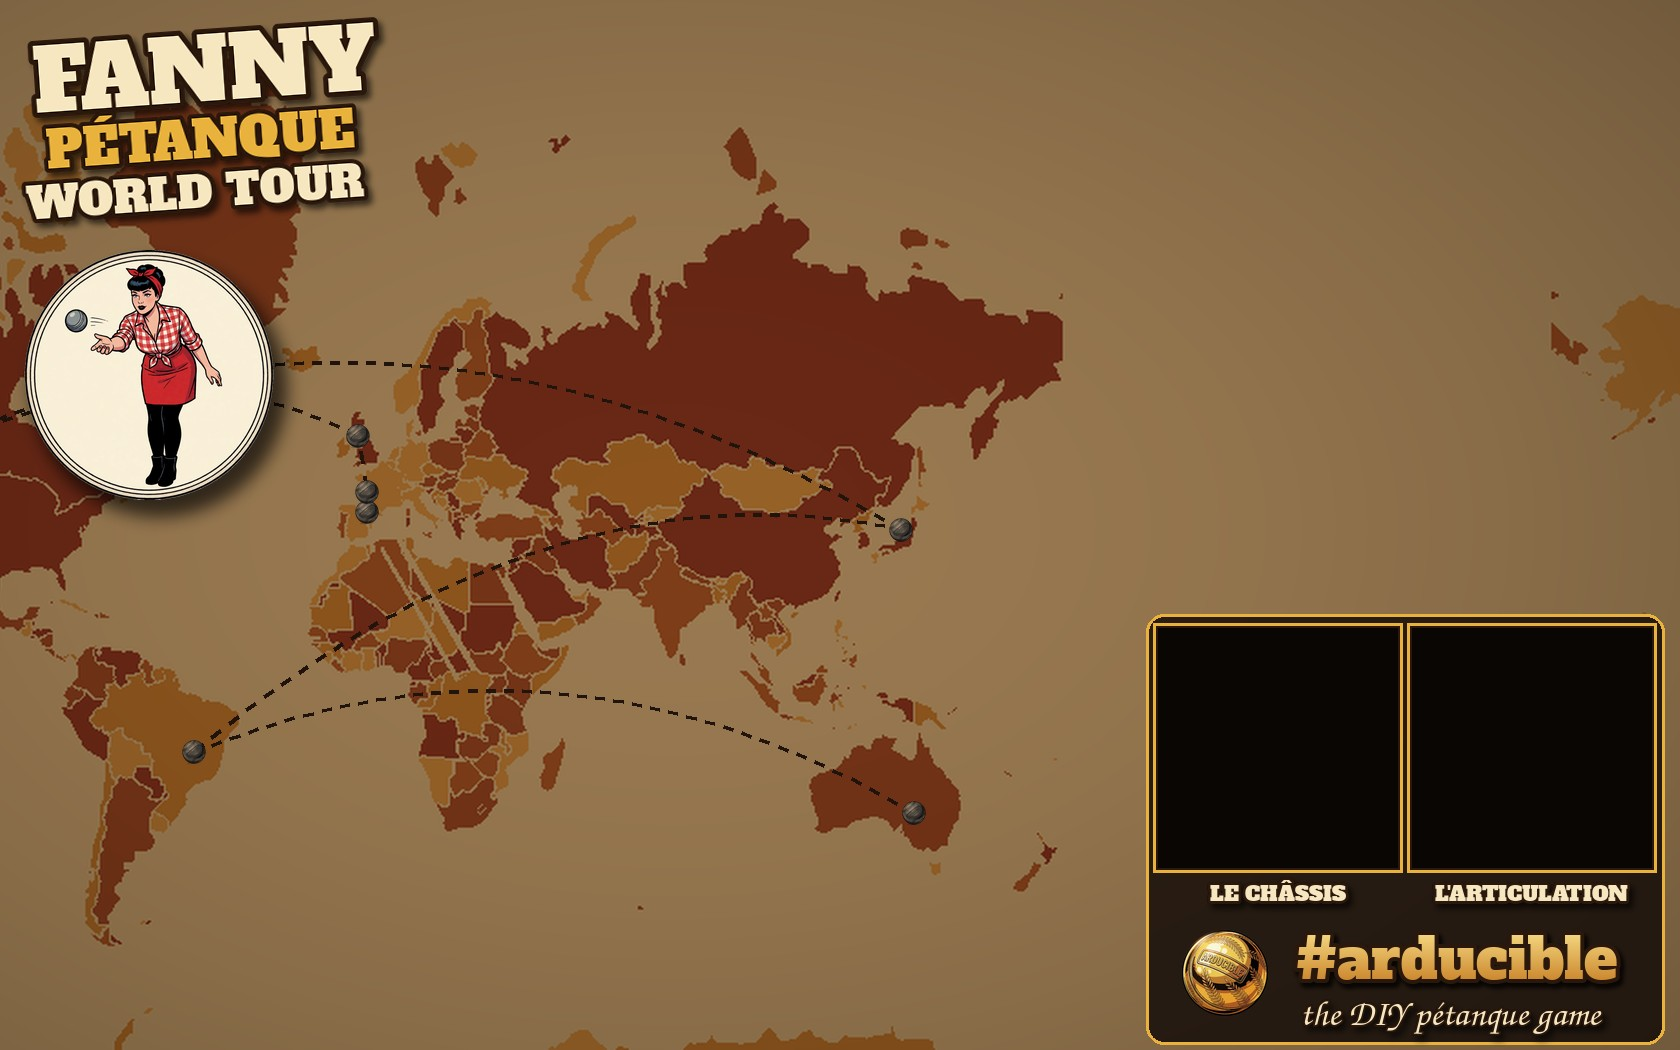
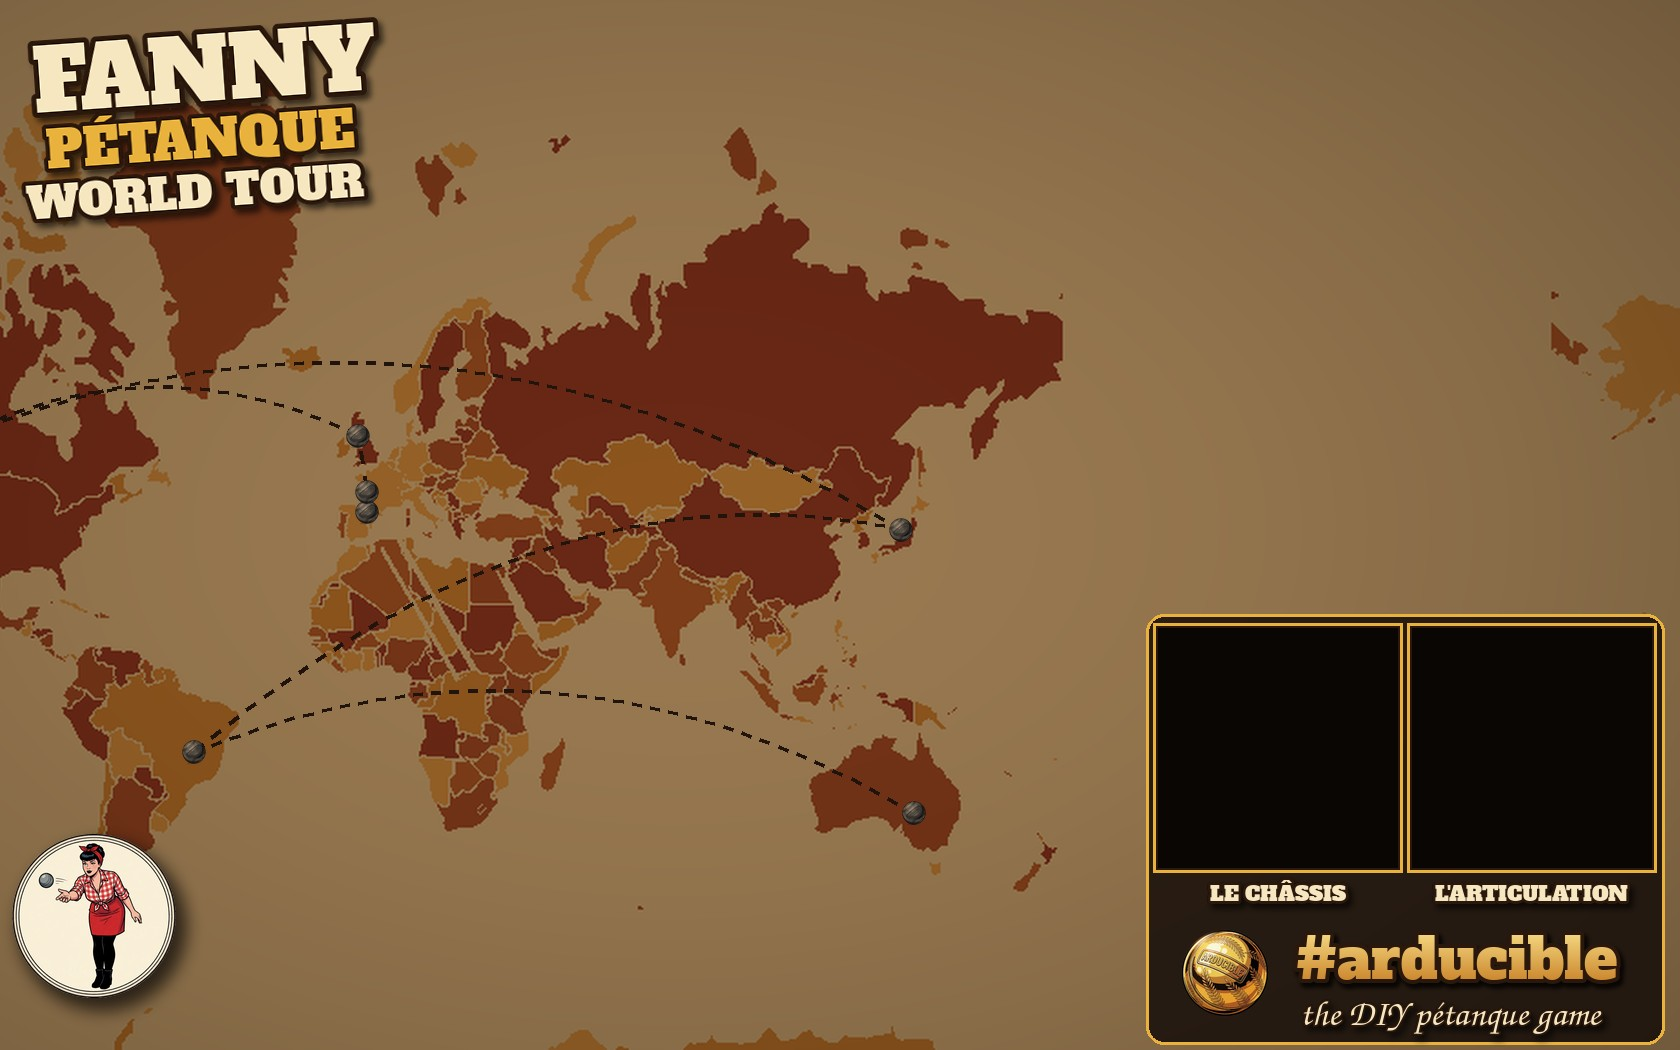
VPX : lanceur dosable comme le jeu web (tiré à fond = couloirs T-O-U-R puis bumpers), flipper en robe à pois qui tourne dans le fond, paquet de publication
- le lanceur de vpinball partait tout ou rien : le script donne la vitesse (durée d'appui, ressort précomprimé), bille dans l'axe et sans rotation
- mode d'essai -c1 lanceur (dosage), README.txt et paquet.sh pour VPUniverse / VPForums

Changed region(s): [[0.0, 0.2133, 0.1857, 0.5181], [0.0, 0.7924, 0.1238, 0.9752]]

diff --git a/outils/vpx/fond.py b/outils/vpx/fond.py
@@ -2,7 +2,8 @@
 """Fond de la vue bureau de la table VPX (écran 1680 x 1050) : clin d'œil au jeu Arducible « Fanny Pétanque World Tour ».
 
   - la carte des escales du World Tour (pays en aplats ocre, itinéraire en pointillés entre les escales de la rampe), assombrie ;
-  - à gauche : le titre FANNY PÉTANQUE WORLD TOUR et le médaillon de Fanny ;
+  - à gauche : le titre FANNY PÉTANQUE WORLD TOUR, le flipper complet (habillage robe à pois) qui tourne sur lui-même
+    (vues rendues par tourniquet.mjs, --tourniquet) et le médaillon de Fanny ;
   - sous l'afficheur : deux cadres où le script de la table fait défiler deux GIF animés tirés des vidéos du projet,
     le châssis du jeu en action et l'articulation de la boule, puis la signature #arducible, the DIY pétanque game.
 
@@ -11,7 +12,7 @@ dans la scène devant les cadres (PANNEAUX dans generateur/src/main.rs, rectangl
 
 Sources : dépôt du jeu Arducible (vidéos, carte, médaillon, boule dorée, police Alfa Slab One).
 Sorties (versées au dépôt, le générateur n'a pas besoin des sources) : outils/vpx/donnees/fond/
-  fond.jpg  chassis.gif  articulation.gif
+  fond.jpg  chassis.gif  articulation.gif  tourniquet.gif
 
   python3 outils/vpx/fond.py [--source ~/Projets/story/Arducible_Fanny_Petanque_World_Tour]
 """
@@ -22,6 +23,7 @@ from PIL import Image, ImageDraw, ImageFilter, ImageFont
 ICI = os.path.dirname(os.path.abspath(__file__))
 ap = argparse.ArgumentParser()
 ap.add_argument('--source', default=os.path.expanduser('~/Projets/story/Arducible_Fanny_Petanque_World_Tour'))
+ap.add_argument('--tourniquet', help='vues du flipper qui tourne (tourniquet.mjs : v00.png…), posées sur le fond')
 a = ap.parse_args()
 S = a.source
 SORTIE = os.path.join(ICI, 'donnees/fond')
@@ -30,6 +32,8 @@ os.makedirs(SORTIE, exist_ok=True)
 W, H = 1680, 1050
 # cadres des deux animations (pixels d'écran) : le générateur y place les flashers
 CADRES = {'chassis': (1158, 628, 1398, 868), 'articulation': (1412, 628, 1652, 868)}
+# à gauche, sans cadre : le flipper complet (habillage robe à pois) qui tourne sur lui-même
+TOURNIQUET = (12, 250, 252, 650)
 CREME, BRUN, OR = (246, 231, 193), (43, 24, 12), (232, 178, 60)
 POLICE = os.path.join(S, 'assets/fonts/AlfaSlabOne-Regular.ttf')
 SCRIPT = next((p for p in ['/usr/share/fonts/opentype/urw-base35/Z003-MediumItalic.otf',
@@ -111,11 +115,11 @@ fond = Image.fromarray((np.clip(A, 0, 1) * 255).astype(np.uint8)).convert('RGBA'
 texte(fond, (205, 70), 'FANNY', 86, ancre='mm', epais=5, angle=4)
 texte(fond, (200, 140), 'PÉTANQUE', 50, fond=OR, ancre='mm', angle=4)
 texte(fond, (195, 192), 'WORLD TOUR', 44, ancre='mm', angle=4)
-med = Image.open(os.path.join(S, 'assets/Images/fanny_10x10cm.png')).convert('RGBA').resize((250, 250), Image.LANCZOS)
+med = Image.open(os.path.join(S, 'assets/Images/fanny_10x10cm.png')).convert('RGBA').resize((164, 164), Image.LANCZOS)
 ombre = Image.new('RGBA', fond.size, (0, 0, 0, 0))
-ImageDraw.Draw(ombre).ellipse((32, 262, 286, 516), fill=(0, 0, 0, 170))
+ImageDraw.Draw(ombre).ellipse((18, 842, 186, 1010), fill=(0, 0, 0, 170))
 fond.alpha_composite(ombre.filter(ImageFilter.GaussianBlur(8)))
-fond.alpha_composite(med, (24, 250))
+fond.alpha_composite(med, (12, 834))
 
 # ------------------------------------------------------------------ sous l'afficheur : cadres des GIF et signature
 d = ImageDraw.Draw(fond)
@@ -168,7 +172,18 @@ infos = {
     # vidéo « assemblage articulation » : la boule sur son articulation, aller-retour
     'articulation': gif('articulation', 'assemblage-articulation.mp4', 0, 2.75, 8, (576, 576, 0, 30), aller_retour=True),
 }
-json.dump({'cadres': CADRES, 'gif': {k: {'images': n, 'fps': f} for k, (n, f) in infos.items()}},
+# flipper qui tourne : chaque vue (fond transparent, ombre au sol comprise) posée sur le morceau de fond qu'elle couvre
+if a.tourniquet:
+    x0, y0, x1, y1 = TOURNIQUET
+    sous = fond.crop(TOURNIQUET)
+    vues = []
+    for f in sorted(os.listdir(a.tourniquet)):
+        if f.endswith('.png'):
+            v = Image.open(os.path.join(a.tourniquet, f)).convert('RGBA').resize((x1 - x0, y1 - y0), Image.LANCZOS)
+            im = sous.copy(); im.alpha_composite(v); vues.append(im.convert('RGB'))
+    vues[0].save(os.path.join(SORTIE, 'tourniquet.gif'), save_all=True, append_images=vues[1:], duration=83, loop=0, optimize=True)
+    infos['tourniquet'] = (len(vues), 12)
+json.dump({'cadres': {**CADRES, 'tourniquet': TOURNIQUET}, 'gif': {k: {'images': n, 'fps': f} for k, (n, f) in infos.items()}},
           open(os.path.join(SORTIE, 'fond.json'), 'w'), indent=1)
 print(SORTIE, infos)
 print([(n, int(x), int(y)) for (n, _, _), (x, y) in zip(ESCALES, pts)])

diff --git a/outils/vpx/generateur/src/main.rs b/outils/vpx/generateur/src/main.rs
@@ -33,18 +33,24 @@ use vpin::vpx::{
 };
 
 const MM: f32 = 1.0 / 0.54; // mm → unités VP
-// vitesse de tir du lanceur au clavier (vpinball : speed_fire / 100 × course tirée ; 80 par défaut, trop faible pour
-// les 1 263 mm du plateau : la bille doit monter tout le couloir et faire le tour du haut). Réglé à l'essai (TIR_LANCEUR=…).
-const TIR_LANCEUR: f32 = 200.0;
+// Frappe propre du lanceur de vpinball : presque nulle. Au clavier il partait tout ou rien (rien sous 0,45 s d'appui,
+// pleine vitesse au-delà de 0,7 s) ; la vitesse de la bille est donnée par le script (LacherLanceur : durée d'appui,
+// ressort précomprimé, comme le jeu web), le lanceur de vpinball ne sert plus qu'au geste. TIR_LANCEUR=… pour essayer.
+const TIR_LANCEUR: f32 = 5.0;
+/// vitesse de tirage du lanceur (vpinball speed_pull, 0,5 par défaut : pleine course en moins de 0,3 s) : le geste
+/// suit l'appui, pleine course en 0,7 à 0,9 s comme TIRAGE_MS du script.
+const TIRAGE_LANCEUR: f32 = 0.1;
 /// luminosité de l'afficheur à points (1 = vpinball par défaut)
 const LUMINOSITE_AFFICHEUR: f32 = 1.0;
 /// force des reflets sur le plateau (0 à 1 ; la table minimale de vpin met 1, trop fort : effet miroir)
 const REFLET_PLATEAU: f32 = 0.12;
 /// Panneaux animés du fond (vue bureau) : GIF, flasher, centre x, y, hauteur et côté en mm (repère du plateau), tournés
 /// de 45° vers la caméra ; ils recouvrent les cadres dessinés par fond.py sous l'afficheur (réglés à l'écran).
-const PANNEAUX: [(&str, &str, f32, f32, f32, f32); 2] = [
-    ("chassis", "GifChassis", 552.5, 1217.5, 332.5, 110.0),
-    ("articulation", "GifArticulation", 673.0, 1217.5, 332.5, 112.0),
+/// Dernières valeurs : largeur et hauteur (dans le plan du panneau, mm).
+const PANNEAUX: [(&str, &str, f32, f32, f32, f32, f32); 3] = [
+    ("chassis", "GifChassis", 552.5, 1217.5, 332.5, 110.0, 110.0),
+    ("articulation", "GifArticulation", 673.0, 1217.5, 332.5, 112.0, 112.0),
+    ("tourniquet", "GifTourniquet", -191.0, 732.0, 118.0, 207.0, 350.0),
 ];
 /// place du fronton sur le fond de la vue bureau : gauche, haut, largeur (fractions de l'écran)
 const FRONTON_BUREAU: [f32; 3] = [0.64, 0.04, 0.34];
@@ -343,7 +349,8 @@ fn main() {
     let tir: f32 = std::env::var("TIR_LANCEUR").ok().and_then(|s| s.parse().ok()).unwrap_or(TIR_LANCEUR);
     items.push(GameItemEnum::Plunger(Plunger { name: "Plunger".into(),
         center: Vertex2D::new(f(&l["x"]) * MM, (f(&l["ballY"]) + f(&t["BALL_R"])) * MM + course),
-        width: 22.0 * MM * 0.5, stroke: course, speed_fire: tir, mech_strength: tir, is_visible: vu, ..Default::default() }));
+        width: 22.0 * MM * 0.5, stroke: course, speed_fire: tir, mech_strength: tir, is_visible: vu,
+        speed_pull: std::env::var("TIRAGE_LANCEUR").ok().and_then(|s| s.parse().ok()).unwrap_or(TIRAGE_LANCEUR), ..Default::default() }));
     // contact SHOOTER : bille posée sur le lanceur
     let mut capt = Trigger { name: "CapteurLanceur".into(), center: p2(f(&l["x"]), f(&l["ballY"])), radius: 25.0,
         shape: TriggerShape::None, is_visible: false, ..Default::default() };
@@ -438,7 +445,7 @@ fn main() {
     // GIF animés du décor (châssis, articulation de la boule) : une image VPX par vue, jouées par le script sur deux
     // flashers tournés vers la caméra devant les cadres du fond (fond.py, CADRES). Position réglée sur la Batocera.
     let mut gifs = String::new();
-    for &(nom, flasher, x, y, z, cote) in PANNEAUX.iter() {
+    for &(nom, flasher, x, y, z, larg, haut) in PANNEAUX.iter() {
         let chemin = ici.join("donnees/fond").join(format!("{nom}.gif"));
         let Ok(fichier) = fs::File::open(&chemin) else { continue };
         use image::AnimationDecoder;
@@ -455,7 +462,7 @@ fn main() {
             rot_x: -45.0, display_texture: true, alpha: 100, is_visible: true, filter: Filter::None, image_alignment: RampImageAlignment::Wrap,
             color: Color::from_rgb(0xffffff), modulate_vs_add: 1.0, ..Default::default() };
         // ordre des points inverse (sinon la face est tournée vers le dessous et n'est pas dessinée)
-        fl.drag_points = [(-1.0, 1.0), (1.0, 1.0), (1.0, -1.0), (-1.0, -1.0)].iter().map(|&(a, b)| dp(x + a * cote / 2.0, y + b * cote / 2.0, 0.0)).collect();
+        fl.drag_points = [(-1.0, 1.0), (1.0, 1.0), (1.0, -1.0), (-1.0, -1.0)].iter().map(|&(a, b)| dp(x + a * larg / 2.0, y + b * haut / 2.0, 0.0)).collect();
         items.push(GameItemEnum::Flasher(fl));
         gifs += &format!("Array({flasher}, \"{nom}_\", {}, {ms}), ", vues.len());
     }

diff --git a/outils/vpx/LISEZMOI.md b/outils/vpx/LISEZMOI.md
@@ -37,6 +37,8 @@ Prérequis : Node 22, Google Chrome, Rust récent (rustup) et `vpxtool` (`cargo 
 positions de la bille dans le journal de vpinball (`ESSAI t=… x=… y=…`) puis lève les palettes. Lanceur réglé ainsi
 (`TIR_LANCEUR` = 200 : la bille monte le couloir, passe le portillon et fait le tour du haut).
 
+Lanceur : celui de vpinball, tiré au clavier, partait tout ou rien (rien sous 0,45 s d'appui, pleine vitesse au-delà de 0,7 s). Le script reprend la loi du jeu web (`js/sim.js forceLanceur`) : la durée d'appui donne le tirage (pleine course en 0,9 s), le ressort précomprimé rend √(énergie), la bille part à `LANCEUR_V` × 1,1 tiré à fond, posée dans l'axe du couloir et sans rotation. `LANCEUR_V` = 30,3 : tiré à fond (tout appui de plus de 0,85 s), la bille suit l'arrondi du haut, tombe dans un couloir T-O-U-R puis dans les bumpers (15 tirs sur 15 à l'essai `lanceur` ; couloirs atteints de 32,5 à 34, au-delà elle fait le tour). Le lanceur de vpinball ne fait plus que le geste (`TIR_LANCEUR` = 5, `TIRAGE_LANCEUR` = 0,1).
+
 Encore à régler en jeu : force des lance-pierres (80), éjection du Cercle (`EjecterCercle`, 12), capteur de rampe.
 
 ## Essais sur la machine (Batocera ou VPX local)
@@ -47,10 +49,15 @@ Encore à régler en jeu : force des lance-pierres (80), éjection du Cercle (`E
 - `balayage` : billes posées sans vitesse sur une grille de 20 mm de tout le plateau (751 points) ; une bille immobile après 4,5 s est signalée `BLOQUE x= y=`, une bille sortie du plateau `PERDUE`.
 - `rampe` : tirs dans la rampe à trois vitesses, billes posées sous la rampe et lâchées du haut du plateau au-dessus de l'entrée (`RAMPE …`).
 - `logique` : toute la logique de jeu, élément par élément (`LOGIQUE …`, tableau `LOGIQUE` du script) : bumpers, lance-pierres, couloirs T-O-U-R et du bas, tourniquet, boules, cibles TIRER / POINTER / BOUCHON, carreau, F-A-N-N-Y, rampe et escales, multiball au Cercle, jackpots, super jackpot, sauvetage, pendule (ATTENTION, TILT), fin de mène et bonus, bille suivante, fin de partie, record, match. Chaque étape écrit les points marqués, le détail des ajouts et l'état du jeu ; les billes évacuées pendant les tirs sont remplacées au lanceur.
+- `lanceur` : dosage du lanceur, une bille posée sur la pointe par durée d'appui (300 ms à 3 s) : vitesse de départ, point le plus haut, points marqués et trajet (`LANCEUR …`).
 - Les capteurs de vpinball signalent plusieurs fois le même passage : le script ne compte qu'un passage par capteur et par 150 ms (`Doublon`).
 
 ## Vue et afficheur
 
 - Vue « bureau » (écran unique paysage, réglage des autres tables de la Batocera) : mode caméra, plateau à gauche vu de face, fond `fond_bureau` composé par le générateur (décor `donnees/fond/fond.jpg`, fronton en haut à droite). Réglage : `VUE_BUREAU` dans `generateur/src/main.rs`, ou `VUE="visée,champ,recul,x,y,z,échelle,mode,décalage"` pour essayer sans recompiler.
 - Afficheur à points 128 × 32 sous le fronton : le VPX de la Batocera ne dessine pas le texte des boîtes de texte, le script calcule les points (police 5 × 7, `DessinerAfficheur`) et les envoie par `DMDPixels` à la boîte `Afficheur` marquée DMD.
-- Décor du fond (`fond.py`, clin d'œil au jeu Arducible « Fanny Pétanque World Tour ») : carte des escales en aplats ocre avec l'itinéraire de la rampe en pointillés, titre et médaillon de Fanny à gauche ; sous l'afficheur, deux GIF tirés des vidéos du projet (le châssis en action, la boule sur son articulation) et la signature #arducible, the DIY pétanque game. Les sorties (`donnees/fond/` : `fond.jpg`, `chassis.gif`, `articulation.gif`) sont versées au dépôt ; `python3 fond.py --source <dépôt Arducible_Fanny_Petanque_World_Tour>` les refait. VPX n'anime pas une image de fond : chaque vue des GIF devient une image de la table, jouée par le script (`AnimerGifs`) sur deux flashers placés dans la scène devant les cadres et tournés vers la caméra (`PANNEAUX` dans `generateur/src/main.rs`).
+- Décor du fond (`fond.py`, clin d'œil au jeu Arducible « Fanny Pétanque World Tour ») : carte des escales en aplats ocre avec l'itinéraire de la rampe en pointillés, titre, flipper complet en robe à pois qui tourne sur lui-même (`tourniquet.mjs` : vues de la scène 3D du jeu web exportée avec l'habillage `pois`, posées par `fond.py --tourniquet`) et médaillon de Fanny à gauche ; sous l'afficheur, deux GIF tirés des vidéos du projet (le châssis en action, la boule sur son articulation) et la signature #arducible, the DIY pétanque game. Les sorties (`donnees/fond/` : `fond.jpg`, `chassis.gif`, `articulation.gif`, `tourniquet.gif`) sont versées au dépôt ; `python3 fond.py --source <dépôt Arducible_Fanny_Petanque_World_Tour>` les refait. VPX n'anime pas une image de fond : chaque vue des GIF devient une image de la table, jouée par le script (`AnimerGifs`) sur deux flashers placés dans la scène devant les cadres et tournés vers la caméra (`PANNEAUX` dans `generateur/src/main.rs`).
+
+## Publication
+
+`./paquet.sh [version]` : `sortie/Fanny Pinball (Arducible 2026) v<version>.zip` avec la table nommée selon l'usage (« Nom (Fabricant Année) vX.Y.vpx »), `README.txt` (VPX 10.8 ou plus, aucune ROM, touches, règles, crédits) et les images de `sortie/captures/`. Jeu original : pas de ROM ni de .directb2s, sons et musiques dans le .vpx.
